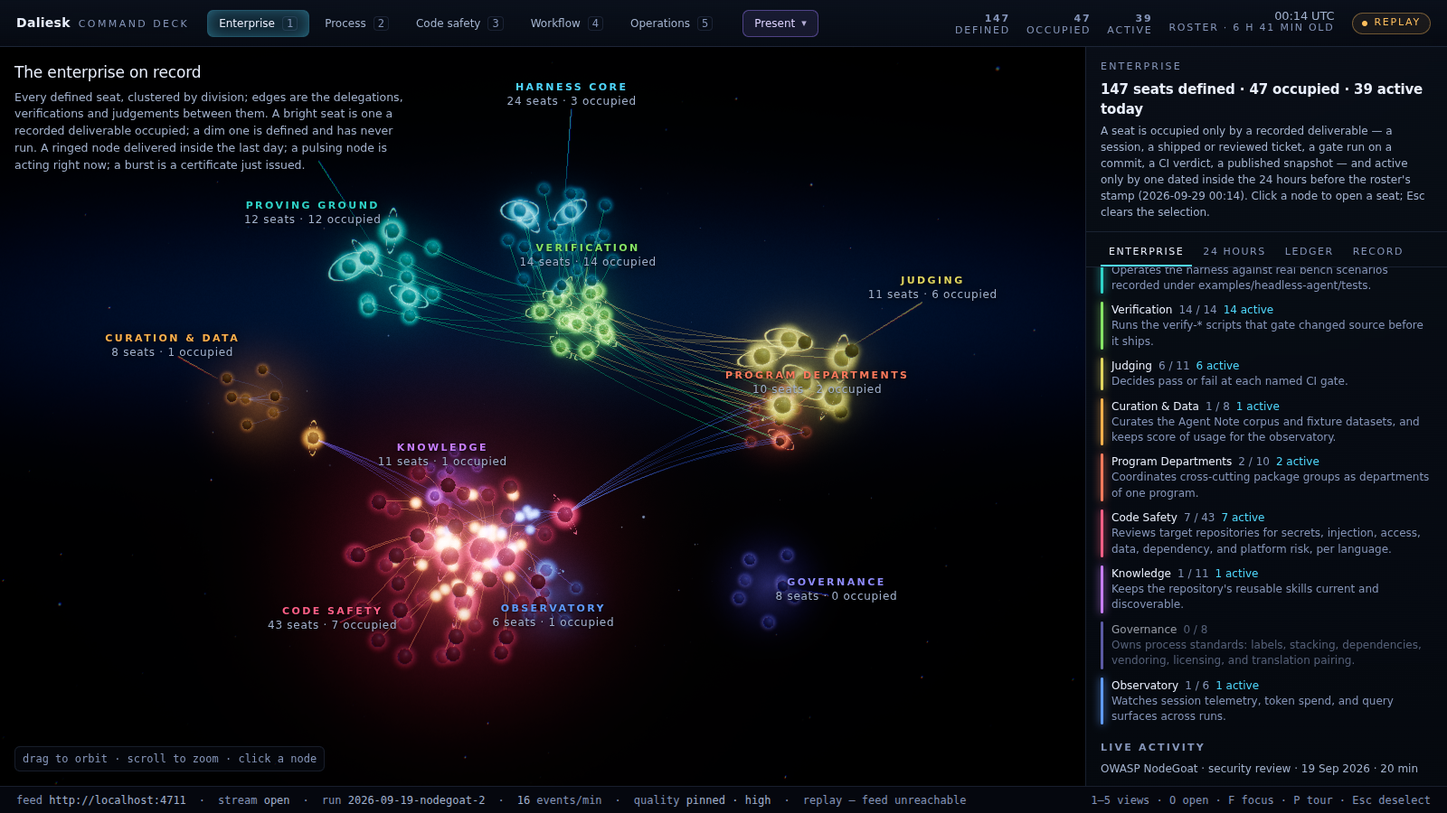
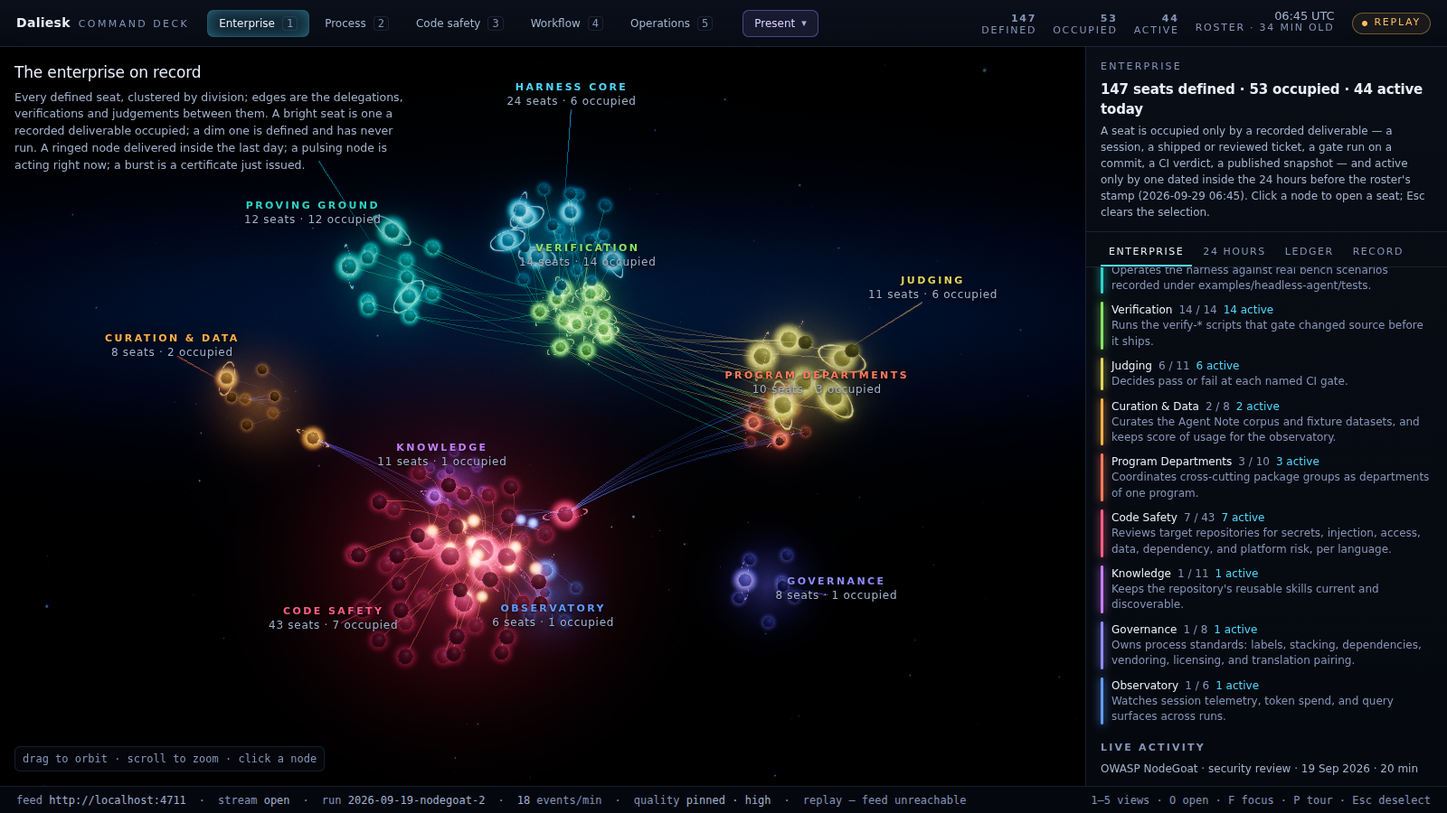
feat(command-deck): name record cards, experiment arms and a program's root for people
The Record tab headed each card with the run's directory name, described a
review by the placeholder path its target was read from and listed each
department's session log by its digest file name; the Workflow view named a
program's root session by its digest.

Each Record card now reads like the other headings
("DeepSeek Harness self-review · security review · 28 Sep 2026 · 23 min"),
an experiment's arm reads in parentheses ("OWASP NodeGoat (base d)"), a
review names its target by its checkout's directory, a department row says
whether its log is recorded, and the Workflow view names the root
"Program". The published operations snapshot now carries no host path, so
tests/fixtures.spec.ts checks every fixture, ops.json included.

The screenshots in apps/command-deck/docs are re-shot from the static
export over the current fixtures; the README pair and the room-grade Agent
Note pair describe the names.

Claude-Session: https://claude.ai/code/session_01HEXjzxR7CyMizem5kFAB4C

diff --git a/apps/command-deck/deck/display-name.ts b/apps/command-deck/deck/display-name.ts
@@ -25,6 +25,9 @@ const SUBJECTS: Record<string, string> = {
   nodegoat: 'OWASP NodeGoat',
   dvja: 'DVJA, the Damn Vulnerable Java Application',
   'csv-tools': 'CSV tools',
+  'readme-rows': 'README rows',
+  'self-assessment': 'Self-assessment',
+  'dsh-self-review': 'DeepSeek Harness self-review',
 }
 
 /** What each kind of run is, as a heading says it. */
@@ -45,16 +48,21 @@ const RECORDED = /^(\d{4}-\d{2}-\d{2})-(.+)$/
 const STARTED = /^(.+)-(\d{4}-\d{2}-\d{2})T\d{2}-\d{2}-\d{2}$/
 
 /**
- * The subject a run slug names: a known target by its proper name, else the
- * slug's words, without the run's ordinal and without the words that only say
- * what kind of run it is.
- * @param slug - The slug after its date, such as `nodegoat-2` or `bench-h3-baseline-sonnet-t5`.
- * @returns The subject, such as `OWASP NodeGoat` or `H3 baseline sonnet t5`.
+ * The subject a run slug names: a known target by its proper name, with the
+ * arm of an experiment in parentheses, else the slug's words, without the
+ * run's ordinal and without the words that only say what kind of run it is.
+ * @param slug - The slug after its date, such as `nodegoat-2`, `nodegoat-9-misses-a` or `bench-h3-baseline-sonnet-t5`.
+ * @returns The subject, such as `OWASP NodeGoat`, `OWASP NodeGoat (misses a)` or `H3 baseline sonnet t5`.
  */
 function subjectOf(slug: string): string {
   const bare = slug.toLowerCase().replace(/-\d+$/, '').replace(/-program$/, '')
   const known = SUBJECTS[bare]
   if (known !== undefined) return known
+  const key = Object.keys(SUBJECTS).find(subject => bare.startsWith(`${subject}-`))
+  if (key !== undefined) {
+    const arm = bare.slice(key.length + 1).replace(/^\d+(?:-|$)/, '').replaceAll('-', ' ')
+    return arm === '' ? SUBJECTS[key] ?? key : `${SUBJECTS[key] ?? key} (${arm})`
+  }
   const words = bare.replace(/^bench-/, '').split('-').filter(word => word !== '')
   const text = words.join(' ')
   return text === '' ? slug : text.charAt(0).toUpperCase() + text.slice(1)
@@ -96,6 +104,16 @@ export function subjectName(name: string): string {
   if (started !== null) return subjectOf(started[1] ?? name)
   const recorded = RECORDED.exec(name)
   return subjectOf(recorded?.[2] ?? name)
+}
+
+/**
+ * The subject of a review target, from the path its record keeps.
+ * @param path - The target's checkout, with host paths already replaced by placeholders such as `<targets>`.
+ * @returns A known target by its proper name, such as `OWASP NodeGoat` for `<targets>/NodeGoat`, else the checkout's directory name.
+ */
+export function targetName(path: string): string {
+  const directory = path.split('/').filter(part => part !== '' && part !== 'repo' && !/^<[^>]*>$/.test(part)).at(-1) ?? path
+  return SUBJECTS[directory.toLowerCase()] ?? directory
 }
 
 /**

diff --git a/apps/command-deck/components/enterprise/RecordPanel.tsx b/apps/command-deck/components/enterprise/RecordPanel.tsx
@@ -3,6 +3,7 @@
 import { useRouter } from 'next/navigation'
 import type { ReactNode } from 'react'
 import type { ProgramRecord } from '@/deck/contract'
+import { displayName, targetName } from '@/deck/display-name'
 import { clock, duration, stamp } from '@/deck/format'
 import { useDeck } from '@/deck/store'
 import { onActivate } from '@/components/shell/activate'
@@ -54,8 +55,8 @@ function chainOf(program: ProgramRecord): ChainStep[] {
 
 /**
  * One department or integration row. The row opens its session in the Workflow
- * view when the deck lists the program's run, and names the session log's file
- * otherwise (its full path is the row's tooltip).
+ * view when the deck lists the program's run, and says whether the record
+ * holds its session log otherwise (the log's path is the row's tooltip).
  * @param props - The program, the row's figures, and whether the deck lists the run.
  * @returns The table row.
  */
@@ -98,7 +99,7 @@ function SessionRow({
     >
       <td>
         <div>{name}</div>
-        <div className="mono">{listed ? `${status} · open session` : `${status} · ${where.split('/').at(-1) ?? where}`}</div>
+        <div className="mono">{`${status} · ${listed ? 'open session' : sessionPath === undefined ? where : 'log recorded'}`}</div>
       </td>
       <td style={{ textAlign: 'right', width: 44 }}>{steps}</td>
       <td style={{ textAlign: 'right', width: 44 }}>{toolCalls}</td>
@@ -117,17 +118,19 @@ function SessionRow({
 function ProgramCard({ program, listed }: { program: ProgramRecord; listed: boolean }): ReactNode {
   const released = program.outcome === 'released'
   const certified = program.departments.filter(department => department.certified).length
+  const { runId: name, kind, startedAt, endedAt } = program
+  const heading = displayName({ name, kind, startedAt, ...endedAt === undefined ? {} : { endedAt } })
   return (
     <div className={`card record ${released ? 'card--verified' : ''}`}>
       <div className="card__head">
-        <h4>{program.runId}</h4>
+        <h4 title={program.runId}>{heading}</h4>
         <span className="status-tag" data-status={released ? 'certified' : program.outcome === undefined ? 'active' : 'failed'}>
           {program.outcome ?? 'running'}
         </span>
       </div>
       <p className="record__what">
         {program.kind === 'code-safety'
-          ? `Code-safety review of ${program.target ?? 'an unrecorded target'}`
+          ? `Code-safety review of ${program.target === undefined ? 'an unrecorded target' : targetName(program.target)}`
           : program.spec?.objective ?? 'Program run'}
       </p>
       <p className="record__meta">

diff --git a/apps/command-deck/tests/fixtures.spec.ts b/apps/command-deck/tests/fixtures.spec.ts
@@ -1,15 +1,13 @@
 /**
  * The published fixtures under `public/fixtures/` name no path of the machine
  * that recorded them. The replay fixtures are written by
- * `scripts/snapshot-fixtures.ts` through `deck/host-paths.ts`; `ops.json` is
- * rewritten by each enterprise cycle's operations collector, which clears its
- * snapshot the same way, and the deck clears any snapshot it reads, so the
- * screen never shows one either.
+ * `scripts/snapshot-fixtures.ts` through `deck/host-paths.ts`, and `ops.json`
+ * by each enterprise cycle's operations collector, which clears its snapshot
+ * the same way.
  */
 import { readdirSync, readFileSync, statSync } from 'node:fs'
 import { join, relative } from 'node:path'
 import { describe, expect, it } from 'vitest'
-import { hostlessJson } from '../deck/host-paths.ts'
 
 const FIXTURES = join(import.meta.dirname, '..', 'public', 'fixtures')
 
@@ -31,13 +29,7 @@ function filesUnder(dir: string): string[] {
 describe('published fixtures', () => {
   it('carry no absolute path of the machine that recorded them', () => {
     const hits = filesUnder(FIXTURES)
-      .filter(path => relative(FIXTURES, path) !== 'ops.json')
       .flatMap(path => (readFileSync(path, 'utf8').match(HOST_PATH) ?? []).map(hit => `${relative(FIXTURES, path)}: ${hit}`))
     expect(hits).toEqual([])
-  })
-
-  it('show no host path of the bundled operations snapshot once the deck has read it', () => {
-    const snapshot = JSON.parse(readFileSync(join(FIXTURES, 'ops.json'), 'utf8')) as unknown
-    expect(JSON.stringify(hostlessJson(snapshot)).match(HOST_PATH)).toBeNull()
   })
 })

diff --git a/apps/command-deck/tests/display-name.spec.ts b/apps/command-deck/tests/display-name.spec.ts
@@ -4,7 +4,7 @@
  */
 import { describe, expect, it } from 'vitest'
 import type { Run } from '../deck/contract.ts'
-import { displayName, subjectName } from '../deck/display-name.ts'
+import { displayName, subjectName, targetName } from '../deck/display-name.ts'
 
 /** The runs the committed replay carried on 2026-09-29, as `runs.json` lists them. */
 const RUNS: Run[] = [
@@ -29,6 +29,18 @@ describe('displayName', () => {
   it('reads a review started from the deck by its target and its timestamp', () => {
     expect(displayName({ name: 'NodeGoat-2026-09-19T20-49-35', kind: 'code-safety' })).toBe('OWASP NodeGoat · security review · 19 Sep 2026')
     expect(subjectName('webgoat-2026-09-28T10-00-00')).toBe('Webgoat')
+  })
+
+  it('names an arm of an experiment on a known subject in parentheses', () => {
+    expect(subjectName('2026-09-27-nodegoat-12-base-d')).toBe('OWASP NodeGoat (base d)')
+    expect(subjectName('2026-09-22-nodegoat-4-improved')).toBe('OWASP NodeGoat (improved)')
+    expect(subjectName('2026-09-21-nodegoat-3')).toBe('OWASP NodeGoat')
+    expect(subjectName('2026-09-27-readme-rows-program')).toBe('README rows')
+  })
+
+  it('names a review target by its checkout, never by the path it was read from', () => {
+    expect(targetName('<targets>/NodeGoat')).toBe('OWASP NodeGoat')
+    expect(targetName('<home>/enterprise-scratch/dsh-subagent-providers/repo')).toBe('dsh-subagent-providers')
   })
 
   it('leaves out what a review read without its run does not record', () => {

diff --git a/apps/command-deck/deck/layout-workflow.ts b/apps/command-deck/deck/layout-workflow.ts
@@ -187,6 +187,9 @@ function rootOf(ids: readonly string[]): string | undefined {
   return root
 }
 
+/** The name of a program's root session, the one every department and the integration hang off. */
+const ROOT_NAME = 'Program'
+
 /**
  * A short, stable name for a session no admitted frame acts in.
  * @param id - The session id.
@@ -394,7 +397,7 @@ export function layoutWorkflow(events: readonly RunEvent[], agents: Map<string, 
       const unseated = principal === undefined || principal === draft.id
       nodes.push({
         id: draft.id,
-        label: agent?.name ?? (unseated ? (member === '' ? shortId(draft.id) : member) : principal),
+        label: agent?.name ?? (unseated ? (draft.id === root ? ROOT_NAME : member === '' ? shortId(draft.id) : member) : principal),
         agentId: principal,
         tier: column,
         x: (column - ((spread.length - 1) / 2)) * TIER_SPAN,

diff --git a/apps/command-deck/README.md b/apps/command-deck/README.md
@@ -49,7 +49,7 @@ The header's **Present** menu starts each of these without a key: the cold open,
 
 Every text on the deck is set at 12 px or larger, uppercase labels at 11 px, and its quietest grey reads at 6.3:1 against the panel; below 1100 px the header wraps onto a second row rather than pushing its badge off the page. The findings table prints each severity as a word (`CRIT`, `HIGH`, `MED`, `LOW`, `INFO`) beside its colour, and every clickable table row takes keyboard focus, opens on Enter or Space and shows the deck's focus ring. On a touch screen the shortcut hints go, each stage's hint names touch gestures, a swipe over the stage scrolls the page and a tap still selects; **Explore 3D** hands the fingers to the stage's orbit controls and **Scroll the page** gives them back. Every camera stands further back on a stage narrower than the 1600×900 one its shots were designed on, so a laptop's square stage or a phone held upright frames the whole graph, pipeline or city. Labels drawn over a scene keep clear of each other and of the view's title and hint, each taking the nearby spot that overlaps least; a phone hides the city's district names.
 
-A heading, a title card and the run picker name a run by its subject, what it was, its day and how long it took, as in `OWASP NodeGoat · security review · 19 Sep 2026 · 20 min` ([`deck/display-name.ts`](deck/display-name.ts)); the run's id stays in the status footer. The event feed folds each run of consecutive tool calls and steps into one row that names its most frequent calls, and **Show every step** lists them one by one; a certificate's row reads how its checks came out, `certificate · 3 of 3 checks pass`, with the certificate's record behind a disclosure. The hint under the Process stage counts each stage's own work: a certificate counts under Verification, where its checks ran, although a department logs it, and a stage with no work in the run says so.
+A heading, a title card, the run picker and each Record card name a run by its subject, what it was, its day and how long it took, as in `OWASP NodeGoat · security review · 19 Sep 2026 · 20 min`, with an experiment's arm in parentheses, as in `OWASP NodeGoat (base d)` ([`deck/display-name.ts`](deck/display-name.ts)); the run's id stays in the status footer and the card's tooltip, and a review's target is named by its checkout's directory, never by the path it was read from. The event feed folds each run of consecutive tool calls and steps into one row that names its most frequent calls, and **Show every step** lists them one by one; a certificate's row reads how its checks came out, `certificate · 3 of 3 checks pass`, with the certificate's record behind a disclosure. The hint under the Process stage counts each stage's own work: a certificate counts under Verification, where its checks ran, although a department logs it, and a stage with no work in the run says so.
 
 The grade steps between three quality tiers as the frame allows: `high` (pixel ratio up to 1.75, SMAA, full bloom), `medium` (1.25, SMAA, a fifth off the bloom) and `low` (1, no SMAA, bloom at 0.8). Two declines in a row drop a tier and four inclines climb one, a tier holds five seconds after any change, and after two drops the tier reached becomes the ceiling, so an unknown laptop adapts once instead of flickering. `?quality=high|medium|low` pins a tier and stops the monitor, which is how the demonstration machine is set after a rehearsal, and the footer says which tier is running and whether it was pinned.
 
@@ -57,17 +57,17 @@ Playback replays a recorded run against its own clock. The transport in the Work
 
 While a review runs, every file a department opens flares on its own building in that department's colour and fades over about two and a half seconds, with a short pulse running up the tower; the file then keeps a faint tint of that colour, so the city fills in as the review reads it, and the panel counts `N of 111 files opened` from the same resolution, a tool event's paths matched against the target's inventory by longest path suffix (on the recorded NodeGoat review that resolves 124 of 634 tool events to 51 of the 111 files). A review that starts while the deck is watching opens on an eight-second launch sequence in which the six departments ignite one after another with what each one reads the code for. A review that reaches its certificate while the deck is watching plays a ten-second verdict, CERTIFIED or NOT CERTIFIED, with the departments that certified, the examiner the certificate names and its severity counts, over a ground ring that travels out from the city centre and bursts each beacon as it passes; a review loaded in its final state plays neither, because nothing happened while anyone was watching. Under `prefers-reduced-motion: reduce` the city holds a steady highlight on the last file touched alone, the launch sequence is one static card, and the verdict is the card without the ring or the burst. The six departments are one colour everywhere: the process lanes and the city's read trail both take it from the palette.
 
-![The enterprise view at 1600×900: 147 seats defined, 47 occupied and 39 active in the roster stamped 00:14 UTC, each division in its colour, the labels clear of the title](docs/enterprise.png)
+![The enterprise view at 1600×900: 147 seats defined, 53 occupied and 44 active in the roster stamped 06:45 UTC, each division in its colour, the labels clear of the title](docs/enterprise.png)
 
 ![The enterprise view on a 390×844 phone: the header wrapped, the whole graph in frame, the touch hint and Explore 3D](docs/enterprise-phone.png)
 
-![The Record tab: one program run with its departments, certificates and sign-off chain](docs/record.png)
+![The Record tab: one program run named by its subject, day and length, with its departments, certificates and sign-off chain](docs/record.png)
 
 ![The process view: the run named by its subject, day and length, departments, verification, judging and integration, and the stream folded into bursts](docs/process.png)
 
 ![The code-safety view: the code city with findings on their files, and the findings table with each severity in words](docs/safety.png)
 
-![The workflow view: the run's sessions as a graph, certificates sealed and merges converging on integration](docs/workflow.png)
+![The workflow view: the program and the sessions it opened as a graph, each certified session sealed by a ring](docs/workflow.png)
 
 ## The Operations view
 

diff --git a/apps/command-deck/README.zh.md b/apps/command-deck/README.zh.md
@@ -49,7 +49,7 @@ pnpm --dir apps/command-deck fixtures
 
 指挥台上所有文字不小于 12 px，大写标签为 11 px，最浅的灰色在面板上的对比度为 6.3:1；宽度低于 1100 px 时，页头折到第二行，而不是把徽标挤出页面。发现表在颜色旁以文字标出每个严重程度（`CRIT`、`HIGH`、`MED`、`LOW`、`INFO`），每一行可点击的表格行都能获得键盘焦点，按 Enter 或空格打开，并显示指挥台的焦点框。在触屏上，快捷键提示隐去，每个舞台的提示改为触控手势，在舞台上滑动会滚动页面，轻点仍然选中；**Explore 3D**（探索 3D）把手指交给舞台的轨道控制，**Scroll the page**（滚动页面）再交还回来。在比设计镜头时所用的 1600×900 舞台更窄的舞台上，每个相机都会站得更远，所以笔记本上近乎正方形的舞台或竖握的手机都能框住整个图、整条流水线或整座城市。场景上绘制的标签彼此避开，也避开视图的标题和提示，每个标签取附近重叠最少的位置；手机上隐藏城市的街区名。
 
-标题、标题卡和运行选择器用主题、运行类型、日期和时长来称呼一次运行，例如 `OWASP NodeGoat · security review · 19 Sep 2026 · 20 min`（[`deck/display-name.ts`](deck/display-name.ts)）；运行的 id 仍保留在状态栏中。事件流把每一段连续的工具调用和步骤折叠为一行，列出其中最常见的调用，**Show every step**（显示每一步）则逐条列出；证书所在行写明其检查的结果，例如 `certificate · 3 of 3 checks pass`，证书的记录收在一个展开项后面。流程舞台下方的提示按各阶段自己的工作计数：证书虽由部门记录，但其检查在验证阶段执行，所以计在验证之下；某阶段在该运行中没有工作时，提示会说明。
+标题、标题卡、运行选择器和每张记录卡片用主题、运行类型、日期和时长来称呼一次运行，例如 `OWASP NodeGoat · security review · 19 Sep 2026 · 20 min`，实验的分组写在括号里，例如 `OWASP NodeGoat (base d)`（[`deck/display-name.ts`](deck/display-name.ts)）；运行的 id 仍保留在状态栏和卡片的提示中，审查目标以其检出目录的名称称呼，而不是读取它时所用的路径。事件流把每一段连续的工具调用和步骤折叠为一行，列出其中最常见的调用，**Show every step**（显示每一步）则逐条列出；证书所在行写明其检查的结果，例如 `certificate · 3 of 3 checks pass`，证书的记录收在一个展开项后面。流程舞台下方的提示按各阶段自己的工作计数：证书虽由部门记录，但其检查在验证阶段执行，所以计在验证之下；某阶段在该运行中没有工作时，提示会说明。
 
 调色会随帧预算在三个质量档之间切换：`high`（像素比最高 1.75、SMAA、完整 bloom）、`medium`（1.25、SMAA、bloom 减少五分之一）与 `low`（1、无 SMAA、bloom 0.8）。连续两次下降降一档，连续四次上升升一档，任一变化后该档保持五秒，两次下降之后所到达的档位成为上限，因此一台陌生的笔记本只会适应一次而不会来回闪动。`?quality=high|medium|low` 固定某一档并停止监视器——演示机器就是在彩排之后这样设定的——状态栏会说明正在运行哪一档以及它是否被固定。
 
@@ -57,17 +57,17 @@ pnpm --dir apps/command-deck fixtures
 
 审查进行期间，某个部门每打开一个文件，该文件自己的楼就以该部门的颜色闪亮，并在约两秒半内淡去，同时一道短促的脉冲沿楼身向上跑过；之后该文件保留一层该颜色的淡淡色调，于是城市随着审查的阅读逐渐填满，面板也按同一套解析统计 `N of 111 files opened`——把工具事件中的路径按最长路径后缀与目标清单匹配（在已记录的 NodeGoat 审查上，634 条工具事件中有 124 条解析到 111 个文件中的 51 个）。在指挥台注视下启动的审查，以一段八秒的发射序列开场，六个部门依次点亮，各自写明它为什么而读代码。在指挥台注视下拿到证书的审查，播放一段十秒的裁决——CERTIFIED 或 NOT CERTIFIED，列出已认证的部门、证书点名的审查器及其各严重级别计数——同时一圈地面光环从城市中心向外扩散，经过每道光柱时使其迸发；以最终状态加载的审查两者都不播放，因为没有任何事发生在有人注视之时。在 `prefers-reduced-motion: reduce` 下，城市只对最后被触及的那个文件保持稳定高亮，发射序列是一张静态卡片，裁决是不带光环与迸发的卡片。六个部门在任何地方都是同一种颜色：流程车道与城市的阅读轨迹都从配色表取色。
 
-![1600×900 下的企业视图：花名册（时间戳 00:14 UTC）中 147 个已定义席位、47 个被占据、39 个活跃，每个分部各有其颜色，标签避开标题](docs/enterprise.png)
+![1600×900 下的企业视图：花名册（时间戳 06:45 UTC）中 147 个已定义席位、53 个被占据、44 个活跃，每个分部各有其颜色，标签避开标题](docs/enterprise.png)
 
 ![390×844 手机上的企业视图：页头折行，整个图都在画面内，附触控提示与 Explore 3D](docs/enterprise-phone.png)
 
-![记录标签页：一次程序运行及其部门、证书与签核链](docs/record.png)
+![记录标签页：以主题、日期与时长称呼的一次程序运行，及其部门、证书与签核链](docs/record.png)
 
 ![流程视图：以主题、日期与时长称呼的运行，departments、验证、裁决与集成，以及折叠成段的事件流](docs/process.png)
 
 ![代码安全视图：代码城市中落在各自文件上的 finding，以及以文字标出严重程度的发现表](docs/safety.png)
 
-![工作流视图：运行的各会话构成的图，证书已封印，合并汇聚到集成节点](docs/workflow.png)
+![工作流视图：程序及其开启的各会话构成的图，每个已认证的会话由一个环封印](docs/workflow.png)
 
 ## 运营视图
 

diff --git a/.agents/notes/implemented/architecture/2026-09-29-command-deck-room-grade.md b/.agents/notes/implemented/architecture/2026-09-29-command-deck-room-grade.md
@@ -32,7 +32,7 @@ The deck also failed the room it is presented in. Its quietest grey read at abou
 
 **Labels keep out of each other's way.** `components/enterprise/labels.ts` gives each stage a `LabelField`: once a frame it clears the rectangles labels have taken, and every 500 ms it measures the stage copy the view names (its title, hint and cards). Each label takes, of a few nearby spots, the first that is clear, or else the one that overlaps least, and keeps its spot until another is clearly better, so labels do not flicker. The phone hides the city's district names, which do not fit beside each other at that width.
 
-**Runs are named for people.** `deck/display-name.ts` turns a run's directory name and times into `OWASP NodeGoat · security review · 19 Sep 2026 · 20 min`, from a table of known review subjects and the run's kind; headings, the title card and the run pickers use it, and the id stays in the footer. The event feed folds each run of consecutive tool calls and steps into one row naming its most frequent calls, with **Show every step** to list them; the feed composes a certificate's row as `certificate · 3 of 3 checks pass` (`certificateLine` in `scripts/harness-feed.ts`) and the deck puts the record behind a disclosure.
+**Runs are named for people.** `deck/display-name.ts` turns a run's directory name and times into `OWASP NodeGoat · security review · 19 Sep 2026 · 20 min`, from a table of known review subjects and the run's kind, with an experiment's arm in parentheses; headings, the title card, the run pickers and the Record cards use it, and the id stays in the footer. A review's target is named by its checkout's directory, and the Workflow view names a program's root session `Program` rather than by its digest. The event feed folds each run of consecutive tool calls and steps into one row naming its most frequent calls, with **Show every step** to list them; the feed composes a certificate's row as `certificate · 3 of 3 checks pass` (`certificateLine` in `scripts/harness-feed.ts`) and the deck puts the record behind a disclosure.
 
 **Division colours follow the published roster.** `DIVISION_COLOR` in `deck/palette.ts` keys exactly the roster's divisions; `tests/palette.spec.ts` fails when a division has no colour, when two share one, or when the palette keys a division the roster no longer defines.
 

diff --git a/.agents/notes/implemented/architecture/2026-09-29-command-deck-room-grade.zh.md b/.agents/notes/implemented/architecture/2026-09-29-command-deck-room-grade.zh.md
@@ -32,7 +32,7 @@ Status: implemented
 
 **标签彼此避让。** `components/enterprise/labels.ts` 为每个舞台提供一个 `LabelField`：每帧清空标签已占的矩形，每 500 ms 测量一次视图指定的舞台文案（标题、提示和卡片）。每个标签在附近几个位置中取第一个空闲的，否则取重叠最少的，并保持该位置直到另一个位置明显更好，因此标签不会闪动。手机上隐藏城市的街区名，因为在那个宽度下它们无法并排放下。
 
-**用人能读懂的名字称呼运行。** `deck/display-name.ts` 根据已知审查主题表和运行类型，把运行的目录名和时间变成 `OWASP NodeGoat · security review · 19 Sep 2026 · 20 min`；标题、标题卡和运行选择器都使用它，id 保留在页脚中。事件流把每一段连续的工具调用和步骤折叠为一行，列出其中最常见的调用，**Show every step** 则逐条列出；feed 把证书所在行组合为 `certificate · 3 of 3 checks pass`（`scripts/harness-feed.ts` 中的 `certificateLine`），指挥台把记录收在一个展开项后面。
+**用人能读懂的名字称呼运行。** `deck/display-name.ts` 根据已知审查主题表和运行类型，把运行的目录名和时间变成 `OWASP NodeGoat · security review · 19 Sep 2026 · 20 min`，实验的分组写在括号里；标题、标题卡、运行选择器和记录卡片都使用它，id 保留在页脚中。审查目标以其检出目录的名称称呼，工作流视图把程序的根会话称为 `Program`，而不是用它的摘要。事件流把每一段连续的工具调用和步骤折叠为一行，列出其中最常见的调用，**Show every step** 则逐条列出；feed 把证书所在行组合为 `certificate · 3 of 3 checks pass`（`scripts/harness-feed.ts` 中的 `certificateLine`），指挥台把记录收在一个展开项后面。
 
 **分部颜色以已发布的花名册为准。** `deck/palette.ts` 中的 `DIVISION_COLOR` 恰好以花名册中的分部为键；某个分部没有颜色、两个分部共用一种颜色，或调色板键入了花名册已不再定义的分部时，`tests/palette.spec.ts` 都会失败。
 
